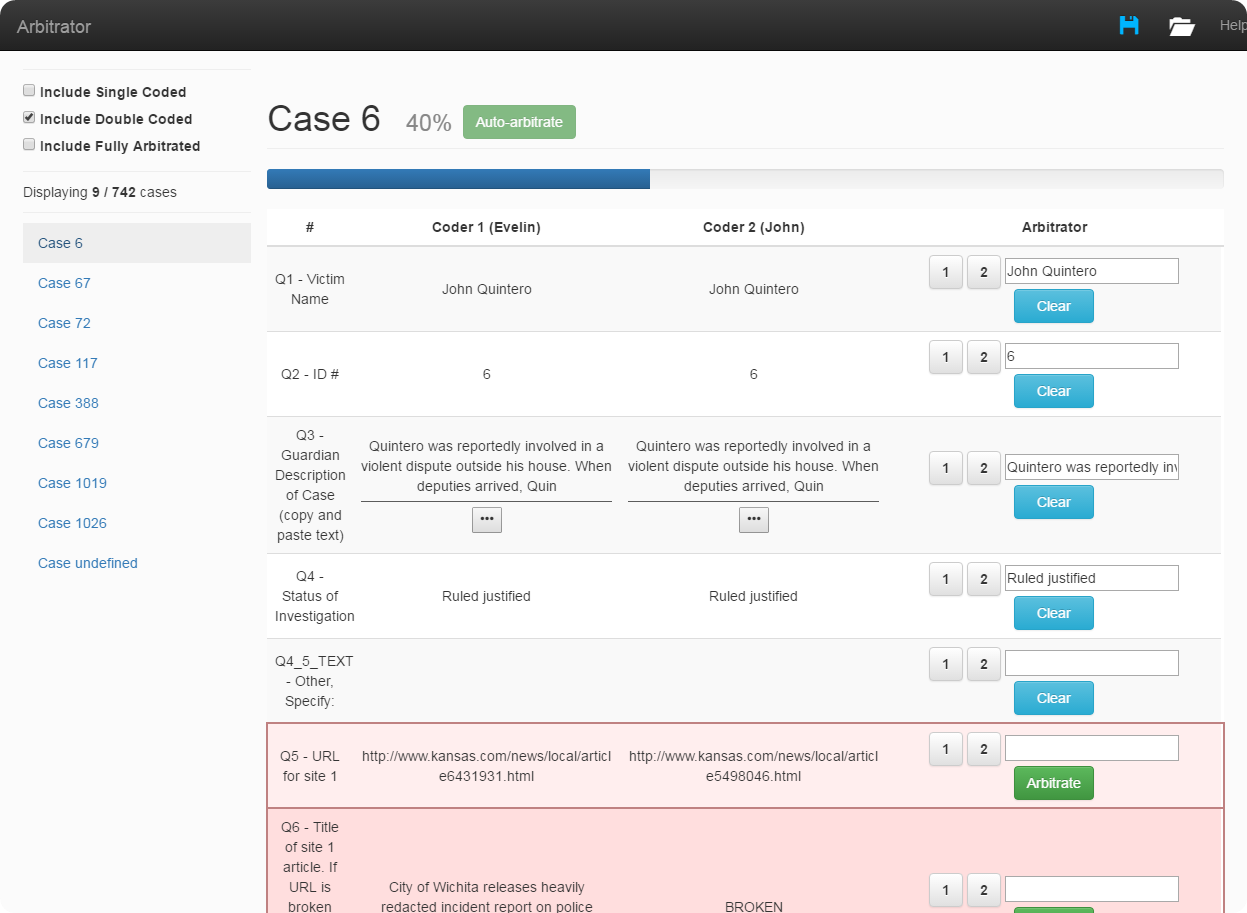
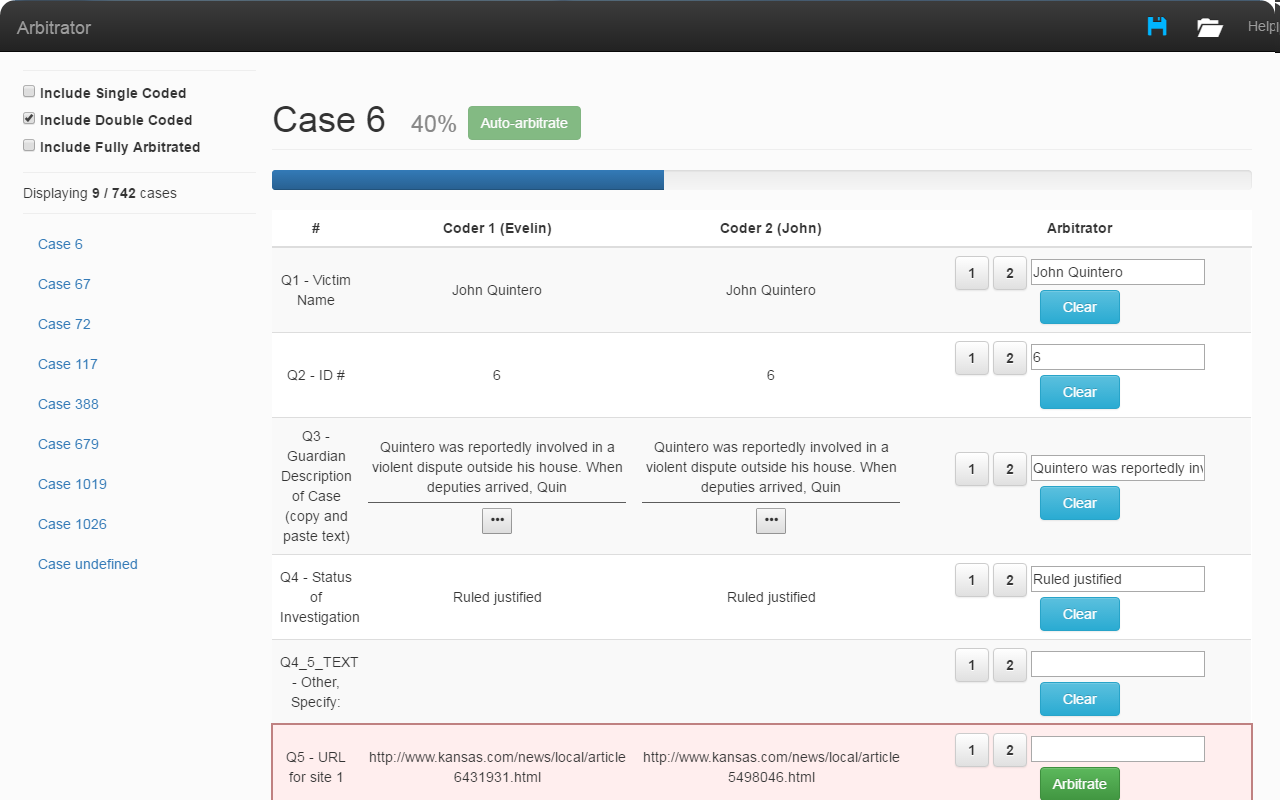
Web-based file selection, no more chrome app.

diff --git a/src/js/disk.js b/src/js/disk.js
@@ -1,52 +1,50 @@
-app.factory('disk', ['Project', 'arbitratorData', '$q', function(Project, arbitratorData, $q) {
+app.factory('disk', ['Project', 'arbitratorData', function(Project, arbitratorData) {
 
-   function writeToDisk(saveData) {
-      chrome.fileSystem.chooseEntry({type: 'saveFile', suggestedName: 'suggestedName.arb'}, function(writableFileEntry) {
-         writableFileEntry.createWriter(function(writer) {
-            writer.onwriteend = function(e) {
-               console.log("File saved complete!")
-            };
+   var savableServices = {
+      arbitrator: arbitratorData,
+      projectMeta: Project
+   };
 
-            var pretty = true;
-            var stringData = pretty ?
-               JSON.stringify(saveData, null, 3) :
-               JSON.stringify(saveData);
+   function writeToDisk(saveData) { // aka "Download"
+      var pretty = true;
+      var stringData = pretty ?
+         JSON.stringify(saveData, null, 3) :
+         JSON.stringify(saveData);
 
-            writer.write(new Blob([stringData]), {type: 'text/json'});
-         }, null);
-      });
-   }
+      var element = document.createElement('a');
+      var projectName = Project.get().name || 'Unnamed Project';
+      var filename = projectName + ".arb";
 
-   function readFromDisk() {
-      var deferred = $q.defer();
-      chrome.fileSystem.chooseEntry({type: 'openFile', accepts:[ {extensions: ['arb']}] }, function(fileEntry) {
-         if (!fileEntry) {
-            console.log("Did not choose file");
-            return;
-         }
-         fileEntry.file(function(file) {
-            var reader = new FileReader();
-            reader.onload = function(event) {
-               var loadedData = JSON.parse(event.target.result);
-               deferred.resolve(loadedData);
-            };
-            reader.readAsText(file);
-         });
-      });
-      return deferred.promise;
+      element.setAttribute('href', 'data:text/plain;charset=utf-8,' + encodeURIComponent(stringData));
+      element.setAttribute('download', filename);
+      element.style.display = 'none';
+      document.body.appendChild(element);
+      element.click();
+      document.body.removeChild(element);
+
    }
 
    function save() {
       Project.clearDirtyFlag();
-      writeToDisk({
-         arbitrator: arbitratorData.getDataForSaving()
-      });
+
+      var saveData = _.reduce(savableServices, function(result, service, serviceKey) {
+         result[serviceKey] = service.getDataForSaving();
+         return result;
+      }, {});
+
+      writeToDisk(saveData);
    }
 
-   function load() {
+   function load(fileContents) {
       Project.clearDirtyFlag();
-      readFromDisk().then(function(saveData) {
-         arbitratorData.setDataFromLoading(saveData.arbitrator);
+      var saveData = JSON.parse(fileContents);
+      _.each(saveData, function(storedValue, serviceKey) {
+         var service = savableServices[serviceKey];
+         if (service) {
+            service.setDataFromLoading(storedValue);
+         } else {
+            console.warn("Skipped value for " + serviceKey);
+         }
       });
    }
 

diff --git a/index.html b/index.html
@@ -2,7 +2,7 @@
 <html ng-app="Arbitrator" ng-controller="projectController">
 <head>
     <meta charset="utf-8">
-    <title>{{projectName}}</title>
+    <title>{{project.name}}</title>
 
     <script src="bower_components/angular/angular.min.js"></script>
     <script src="bower_components/papaparse/papaparse.min.js"></script>
@@ -30,14 +30,30 @@
                 <span class="icon-bar"></span>
             </button>
             <button class="button btn-link navbar-brand" ng-click="switchToSetup()">Arbitrator</button>
+            <button class="button btn-link navbar-brand title-button"
+               ng-if="!editingTitle" ng-click="toggleEditing()">
+                {{project.name}}
+            </button>
+            <input type="text"
+                   ng-if="editingTitle" ng-blur="toggleEditing()"
+                   ng-change="markDirty()"
+                   class="button navbar-brand title-text"
+                   ng-model="project.name"/>
         </div>
         <div class="navbar-collapse collapse">
             <ul class="nav navbar-nav navbar-right">
-                <li> <a class="glyphicon glyphicon-floppy-disk"
+                <li>
+                    <a class="glyphicon glyphicon-floppy-disk"
                         uib-tooltip="{{dirty() ? 'Save Changes' : 'No New Changes'}}"
                         ng-click='dirty() && save()'
-                        aria-hidden="true"></a></li>
-                <li> <a class="glyphicon glyphicon-folder-open" ng-click='open()' aria-hidden="true"></a></li>
+                        aria-hidden="true"></a>
+                </li>
+                <li>
+                    <label for="loadProjectButton" id="load-label">
+                        <i class="glyphicon glyphicon-folder-open"></i>
+                    </label>
+                    <input style="display:none" id="loadProjectButton" type="file" accept=".arb" file-reader class="form-control">
+                </li>
                 <li> <a href="#">Help</a> </li>
             </ul>
         </div>

diff --git a/gulpfile.js b/gulpfile.js
@@ -5,10 +5,10 @@ var sourcemaps = require('gulp-sourcemaps');
 var concat = require('gulp-concat');
 var useref = require('gulp-useref');
 var uglify = require('gulp-uglify');
+var flatten = require('gulp-flatten');
 var imagemin = require('gulp-imagemin');
 var cache = require('gulp-cache');
 var del = require('del');
-var runSequence = require('run-sequence');
 var browserSync = require('browser-sync').create();
 
 // Development Tasks 
@@ -28,7 +28,6 @@ gulp.task('sass', function() {
     .pipe(gulp.dest('dist')) // Outputs it in the css folder
 });
 
-// Watchers
 gulp.task('watch', function() {
   gulp.watch('src/scss/**/*.scss', ['sass']);
   gulp.watch('src/js/**/*.js', ['javascript']);
@@ -45,7 +44,15 @@ gulp.task('serve', ['sass', 'javascript', 'watch'], function() {
    gulp.watch("index.html").on('change', browserSync.reload);
 });
 
-// Build Sequences
-// --------------
+gulp.task('moveLibs', function() {
+   gulp.src([
+      'bower_components/angular/angular.min.js',
+      'bower_components/papaparse/papaparse.min.js',
+      'bower_components/lodash/dist/lodash.min.js',
+      'bower_components/bootstrap/dist/css/bootstrap.css',
+      'bower_components/bootstrap/dist/css/bootstrap-theme.css'
+   ],{base:"." })
+   .pipe(gulp.dest('dist/'))
+});
 
-gulp.task('default', ['serve']);
+gulp.task('default', ['moveLibs', 'serve']);

diff --git a/src/js/Project.js b/src/js/Project.js
@@ -2,14 +2,15 @@
 app.factory('Project', function() {
 
    var project = {
-      name: 'Guardian Coding 3.0'
+      // name: 'Guardian Coding 3.0'
+      name: 'Unnamed Project'
    };
 
    var dirty = false;
 
    return {
-      name: function() {
-         return project.name;
+      get: function() {
+         return project;
       },
       isDirty: function() {
          return dirty;
@@ -19,6 +20,12 @@ app.factory('Project', function() {
       },
       clearDirtyFlag: function() {
          dirty = false;
+      },
+      getDataForSaving: function() {
+         return project;
+      },
+      setDataFromLoading: function(loadedData) {
+         angular.merge(project, loadedData);
       }
    }
 

diff --git a/src/js/toolbar-controller.js b/src/js/toolbar-controller.js
@@ -1,6 +1,8 @@
-app.controller('toolbarController', ['$scope', 'Project', 'currentPage', 'disk', function($scope, Project, currentPage, disk) {
-   $scope.save = disk.save;
-   $scope.open = disk.load;
-   $scope.dirty = Project.isDirty;
-   $scope.switchToSetup = currentPage.switchToSetup;
+app.controller('toolbarController', ['$scope', 'Project', 'currentPage', 'disk',
+   function($scope, Project, currentPage, disk) {
+      $scope.save = disk.save;
+      $scope.open = disk.load;
+      $scope.switchToSetup = currentPage.switchToSetup;
+
+      $scope.handleLoad = disk.load;
 }]);

diff --git a/src/js/app.js b/src/js/app.js
@@ -1,7 +1,15 @@
 var app = angular.module('Arbitrator', []);
 
 app.controller('projectController', ['$scope', 'Project', function ($scope, Project) {
-   $scope.projectName = Project.name();
+   $scope.project = Project.get();
+   $scope.editingTitle = false;
+   $scope.toggleEditing = function() {
+      $scope.editingTitle = !$scope.editingTitle;
+   };
+
+   
+   $scope.dirty = Project.isDirty;
+   $scope.markDirty = Project.markDirty;
 }]);
 
 app.factory('currentPage', function () {

diff --git a/src/scss/main.scss b/src/scss/main.scss
@@ -29,6 +29,20 @@ body {
     color: #00b5ff; //blue
   }
 
+  #load-label {
+    padding-top: 12px;
+    padding-right: 10px;
+    padding-left: 10px;
+  }
+
+  .title-button {
+    font-size:15px;
+  }
+
+  .title-text {
+    font-size:15px;
+  }
+
 }
 
 .sidebar-offcanvas {

diff --git a/src/js/fileReader.js b/src/js/fileReader.js
@@ -22,6 +22,7 @@ app.directive('fileReader', function () {
          element.on('change', function (changeEvent) {
             var files = changeEvent.target.files;
             readFiles(files, $scope);
+            element[0].value = null;
          });
       }
    };
